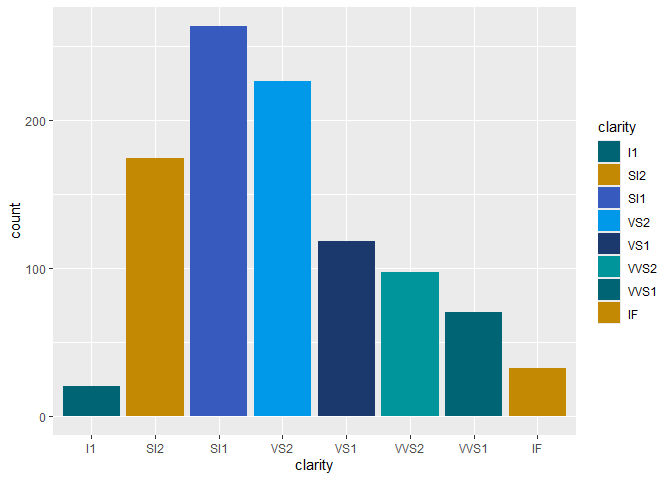
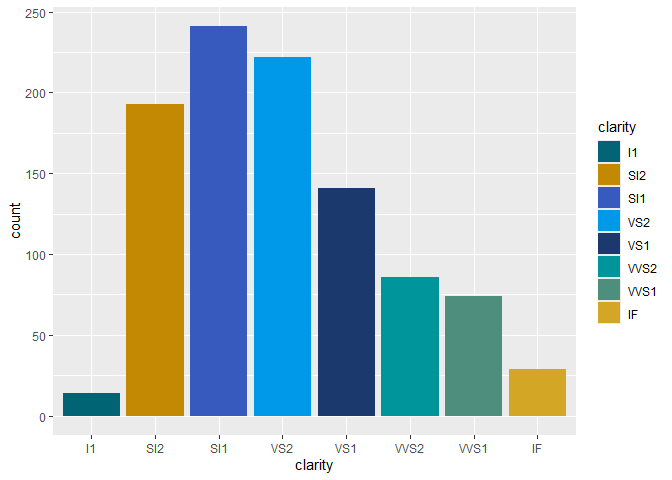
Fixes and finalicing palettes in themes

diff --git a/README.md b/README.md
@@ -67,9 +67,6 @@ ggplot(dsamp, aes(carat, price, colour = clarity)) +
   scale_colour_vm()
 ```
 
-    ## Warning in ggcustom_pal(n, "vm"): n is greater than maximum number of colors in
-    ## the vm palette. Colors are recycled
-
 <img src="man/figures/README-unnamed-chunk-3-1.png" width="100%" />
 
 You can also use the fill scale for bar plots or other filled
@@ -80,9 +77,6 @@ ggplot(dsamp, aes(clarity, fill = clarity)) +
   geom_bar() +
   scale_fill_vm()
 ```
-
-    ## Warning in ggcustom_pal(n, "vm"): n is greater than maximum number of colors in
-    ## the vm palette. Colors are recycled
 
 <img src="man/figures/README-unnamed-chunk-4-1.png" width="100%" />
 
@@ -106,8 +100,8 @@ p + theme_vm()
 
 ``` r
 # Using the fpb theme
-p <- txhousing |>
-  filter(city %in% c("Austin", "Houston", "Dallas", "Arlington")) |>
+p <- txhousing |> 
+  filter(city %in% c("Austin", "Houston", "Dallas", "Arlington")) |> 
   ggplot(aes(date, inventory, colour = city)) +
   geom_line() +
   labs(title = "Plot title", subtitle = "Subtitle", caption = "Source:TAMU real estate center")
@@ -120,13 +114,13 @@ p + theme_fpb()
 ### Setting Custom Theme and Palette with `set_gg()`
 
 The `set_gg()` function allows you to set a custom theme and,
-optionally, override palette defaults for your `ggplot2`
-visualizations. When the `palette` argument is omitted, the function uses
-the palette information already embedded in the supplied theme (for
-example `theme_vm()` adds palette defaults through the ggplot2 4.0.0
-theme palette entries). You can still provide a palette function or
-ggcustom palette name to override those defaults when needed. Below is an
-example using `theme_vm()`. For VM there is also the shortcut `set_vm()`.
+optionally, override palette defaults for your `ggplot2` visualizations.
+When the `palette` argument is omitted, the function uses the palette
+information already embedded in the supplied theme (for example
+`theme_vm()` adds palette defaults through the ggplot2 4.0.0 theme
+palette entries). You can still provide a palette function or ggcustom
+palette name to override those defaults when needed. Below is an example
+using `theme_vm()`. For VM there is also the shortcut `set_vm()`.
 
 ``` r
 # Example dataset
@@ -182,7 +176,6 @@ making it easy to expand with other organization-specific styles.
 # Scatter plot with VM theme and color scale
 ggplot(mtcars, aes(mpg, wt, color = factor(cyl))) +
   geom_point(size = 3) +
-  scale_colour_vm() +
   theme_vm()
 ```
 
@@ -192,12 +185,8 @@ ggplot(mtcars, aes(mpg, wt, color = factor(cyl))) +
 # Bar plot with VM fill scale
 ggplot(mpg, aes(class, fill = class)) +
   geom_bar() +
-  scale_fill_vm() +
   theme_vm()
 ```
-
-    ## Warning in ggcustom_pal(n, "vm"): n is greater than maximum number of colors in
-    ## the vm palette. Colors are recycled
 
 <img src="man/figures/README-unnamed-chunk-9-1.png" width="100%" />
 
